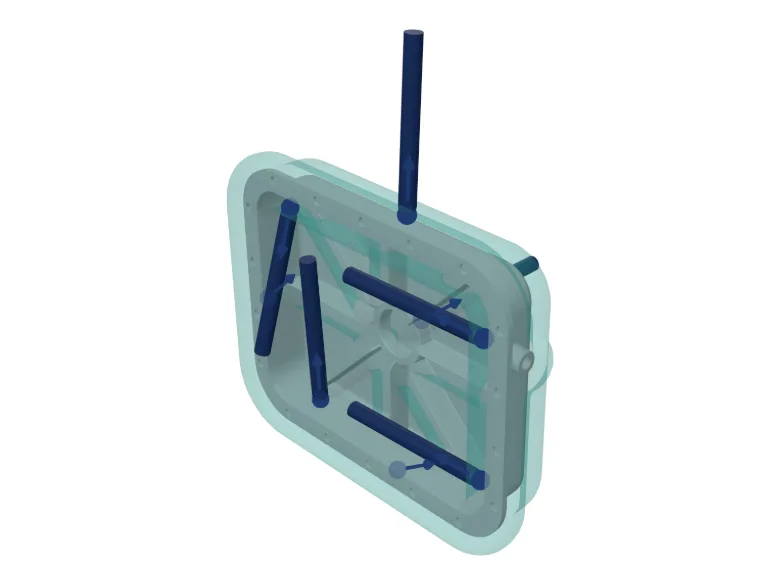
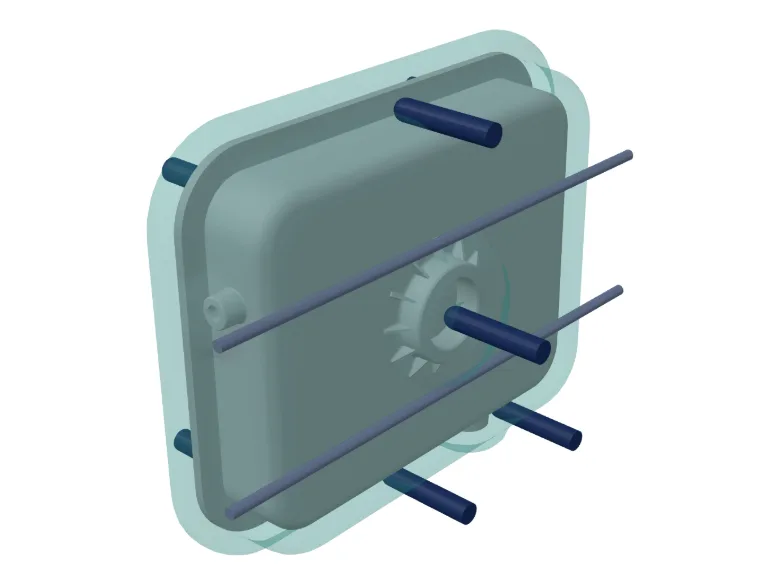
Startseite: Überläufe außen am Rand, Kühlstiche parallel zur Formöffnung
Überlaufdesigner: Die Bohnen, das Waschbrett und die Überläufe mit
Entlüftung lagen im Bild auf der Deckelfläche und wiesen nach innen. Das
Skript klickte mitten ins Bauteil. Jetzt sitzen sie außen an der
Flanschkante in der Trennebene, nach außen gedreht: der Ort per
senkrechtem Strahl aufs Bauteil, der Plan über fromJSON des Werkzeugs,
ohne Griffe.

Temperierkanal-Designer: Die Automatik bohrte mit der Vorgabe „Normale"
jeden Stich senkrecht zur Abstandsfläche, schräg in alle Richtungen. Jetzt
Richtung Z, 100 mm lang, dazu zwei gerade Kanäle unter dem Wannenboden,
die den Mindest-Wandabstand halten (die Legende nannte „Kanal", das Bild
zeigte keinen). Blick von unten auf die feste Hälfte, wo sechs der acht
Stiche sitzen; figure() kennt dafür eine freie Blickrichtung.

Dazu die Alt-Texte beider Karten und der Satz „Beides sitzt außen am
Bauteilrand in der Trennebene" statt „wird aufs Bauteil gesetzt".

Claude-Session: https://claude.ai/code/session_01BZ1mb85zpV55sLaZeM37kK

diff --git a/web/index.html b/web/index.html
@@ -822,16 +822,16 @@
         </div>
       </a>
       <a class="studio-card" href="/tools/3d-studio/ueberlauf.html">
-        <figure class="studio-fig"><img src="/assets/studio/ueberlauf.webp" width="780" height="585" alt="Bauteil von oben mit Überlaufbohnen, einem Überlauf mit Entlüftung und einem Waschbrett" loading="lazy" decoding="async"></figure>
+        <figure class="studio-fig"><img src="/assets/studio/ueberlauf.webp" width="780" height="585" alt="Bauteil von oben: außen am Flanschrand zwei Überlaufbohnen und ein Waschbrett, an den Seiten je ein Überlauf mit Entlüftung" loading="lazy" decoding="async"></figure>
         <div class="studio-text">
           <h4>Überlaufdesigner</h4>
-          <p>Überläufe fangen die kalte Schmelzefront, Entlüftungen lassen die Luft heraus. Beides wird aufs Bauteil gesetzt; das Volumen geht ins Schussgewicht.</p>
+          <p>Überläufe fangen die kalte Schmelzefront, Entlüftungen lassen die Luft heraus. Beides sitzt außen am Bauteilrand in der Trennebene; das Volumen geht ins Schussgewicht.</p>
           <ul class="fig-legend"><li><span class="key" style="background:var(--mark)"></span>Bohne</li><li><span class="key" style="background:var(--air)"></span>mit Entlüftung</li><li><span class="key" style="background:var(--mark-warm)"></span>Waschbrett</li></ul>
           <div class="arrow">Öffnen →</div>
         </div>
       </a>
       <a class="studio-card" href="/tools/3d-studio/temperier.html">
-        <figure class="studio-fig"><img src="/assets/studio/temperier.webp" width="780" height="585" alt="Bauteil in der Abstandsfläche mit automatisch gesetzten Kühlstichen und Kanälen" loading="lazy" decoding="async"></figure>
+        <figure class="studio-fig"><img src="/assets/studio/temperier.webp" width="780" height="585" alt="Bauteil von unten in der Abstandsfläche: zwei gerade Kanäle unter dem Boden, automatisch gesetzte Kühlstiche parallel zur Formöffnung" loading="lazy" decoding="async"></figure>
         <div class="studio-text">
           <h4>Temperierkanal-Designer</h4>
           <p>Kühlstiche und Kanäle liegen auf der Fläche im gewählten Abstand zur Kavität. Die Automatik verteilt sie dorthin, wo das Bauteil dick ist; wer zu nah an der Kavität steht, wird gelb markiert.</p>
